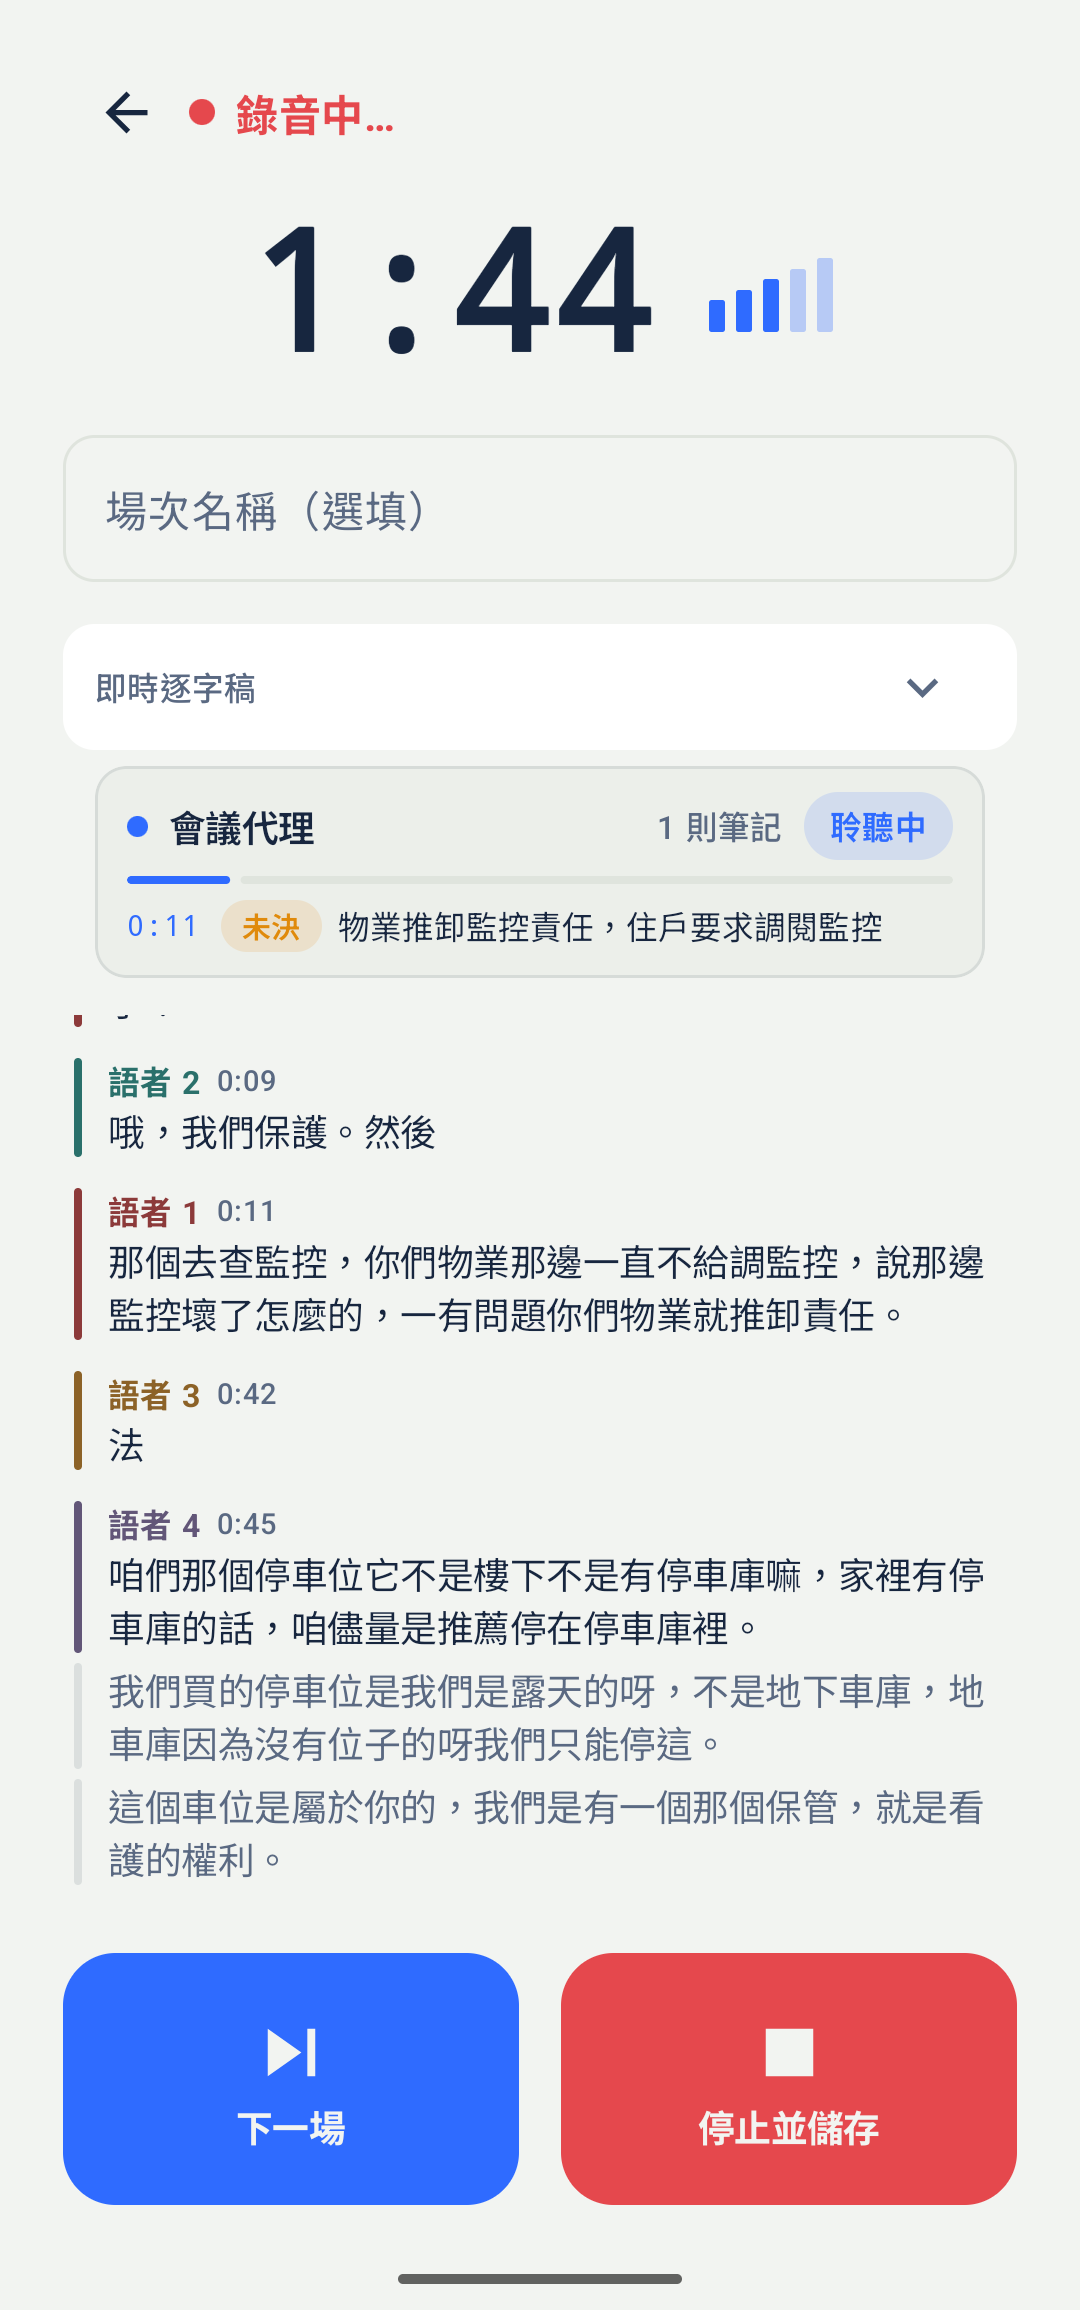
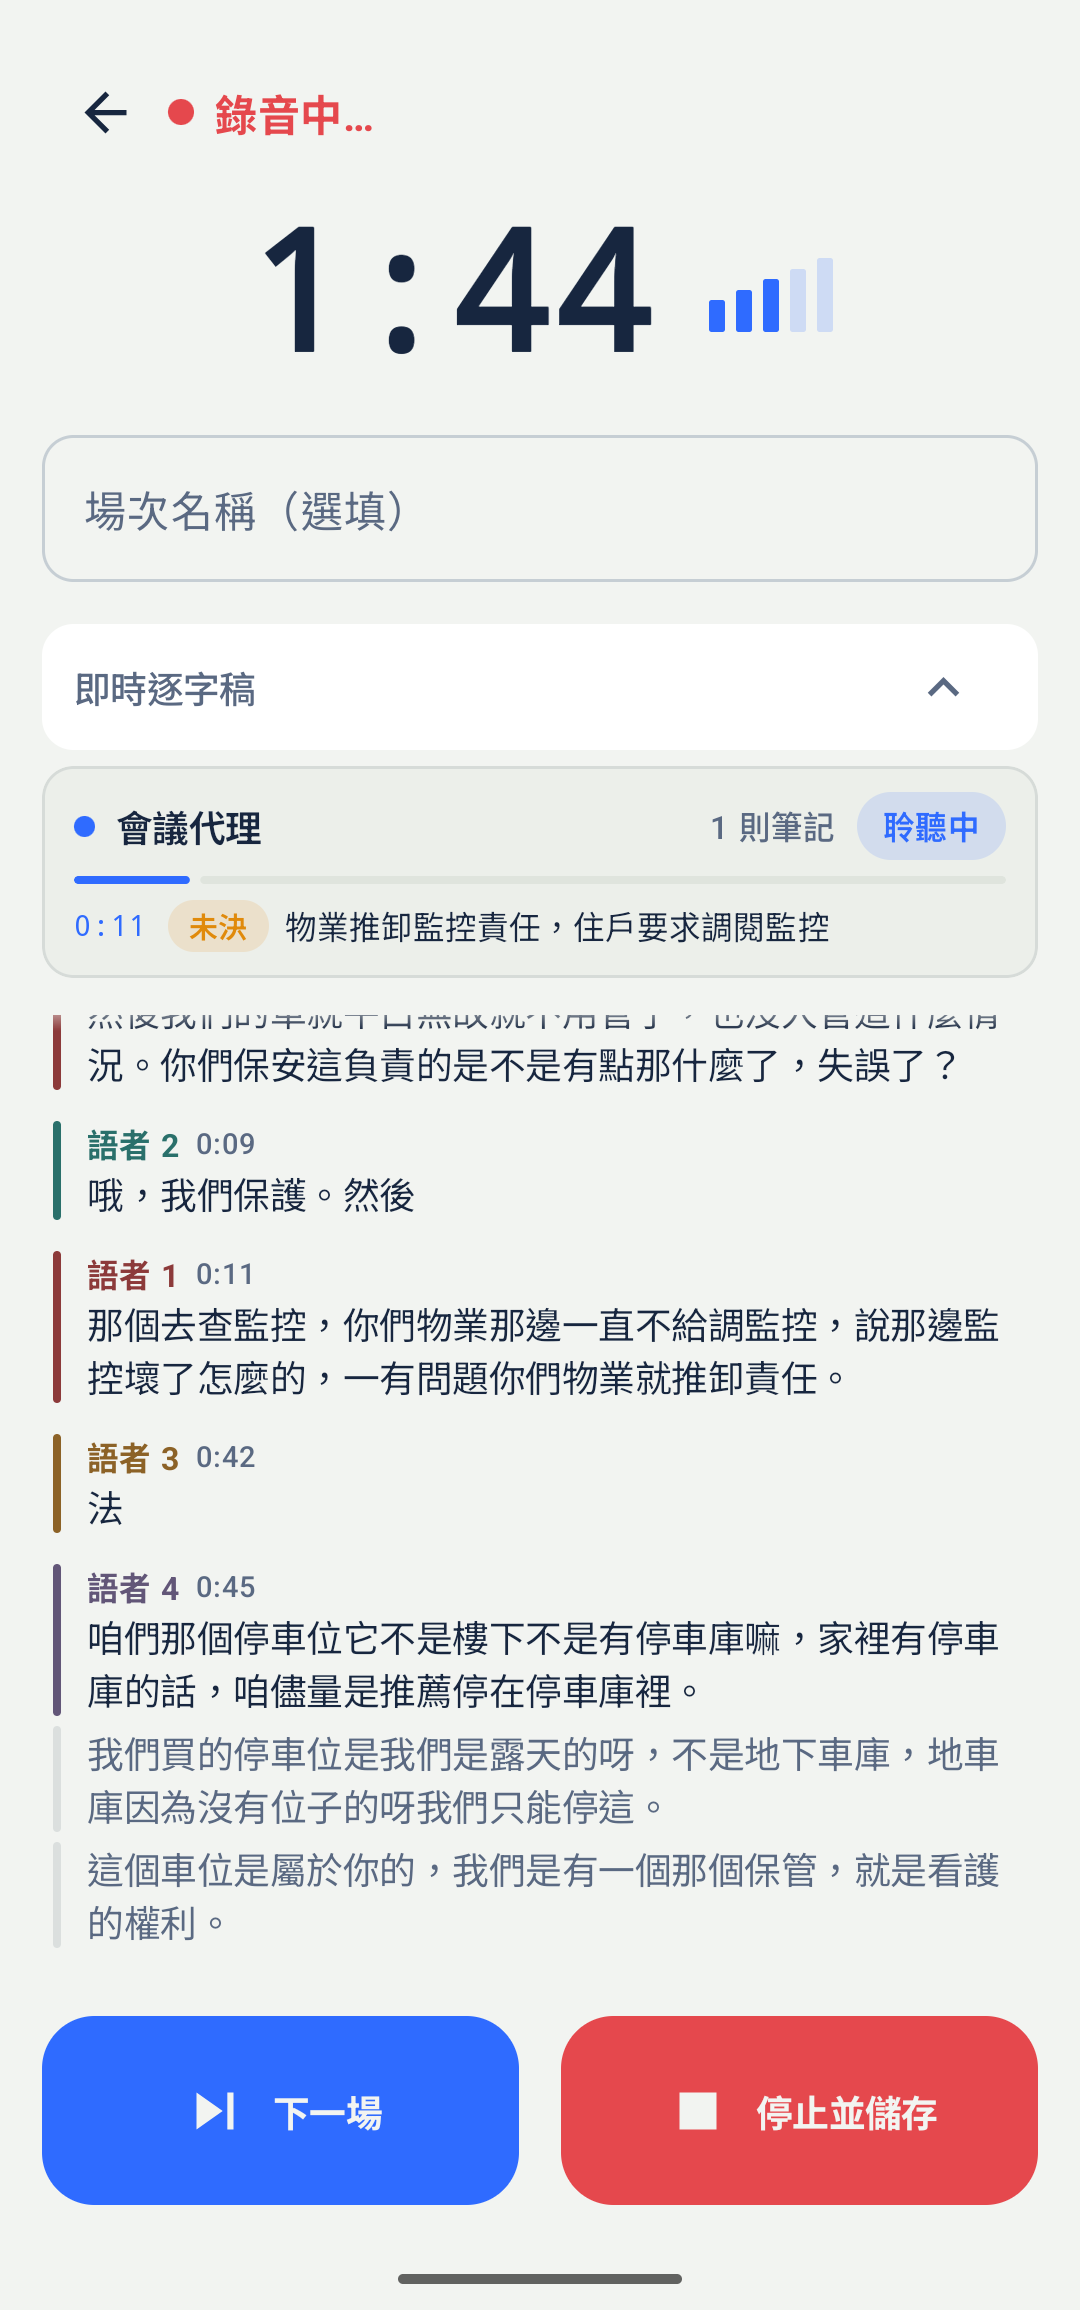
ui: recording booth polish (aligned agent card, fade, 16 dp margin, shorter buttons, visible name border, chevron direction) and redundancy cleanup (card titles, filter chips, agent caution)
Claude-Session: https://claude.ai/code/session_01FTPZWryYGhBFouGpM2DEme

diff --git a/app/src/main/java/studio/voxsum/ui/CaptureScreen.kt b/app/src/main/java/studio/voxsum/ui/CaptureScreen.kt
@@ -51,7 +51,12 @@ import androidx.compose.runtime.setValue
 import androidx.compose.ui.Alignment
 import androidx.compose.ui.Modifier
 import androidx.compose.ui.draw.clip
+import androidx.compose.ui.graphics.BlendMode
+import androidx.compose.ui.graphics.Brush
 import androidx.compose.ui.graphics.Color
+import androidx.compose.ui.graphics.CompositingStrategy
+import androidx.compose.ui.draw.drawWithContent
+import androidx.compose.ui.graphics.graphicsLayer
 import androidx.compose.ui.platform.LocalConfiguration
 import androidx.compose.ui.res.stringResource
 import androidx.compose.ui.text.font.FontWeight
@@ -97,7 +102,7 @@ fun CaptureScreen(
             .background(pal.Slate900Grad)
             .statusBarsPadding()
             .navigationBarsPadding()
-            .padding(horizontal = 24.dp),
+            .padding(horizontal = 16.dp),
     ) {
         Row(verticalAlignment = Alignment.CenterVertically, modifier = Modifier.padding(top = 4.dp)) {
             IconButton(onClick = onBack) {
@@ -143,7 +148,7 @@ fun CaptureScreen(
             LiveHeader(showLive, pal) { showLive = !showLive }
             LivePanel(showLive, utterances, stable, agent)
             Spacer(Modifier.height(16.dp))
-            CaptureButtons(isRecording, onNextTalk, onStop, buttonHeight = 96.dp)
+            CaptureButtons(isRecording, onNextTalk, onStop, buttonHeight = 72.dp)
             Spacer(Modifier.height(16.dp))
         }
     }
@@ -194,7 +199,9 @@ private fun NameField(sessionName: String, onSessionName: (String) -> Unit) {
         shape = RoundedCornerShape(12.dp),
         colors = OutlinedTextFieldDefaults.colors(
             focusedTextColor = pal.Slate200, unfocusedTextColor = pal.Slate200,
-            focusedBorderColor = pal.Sky, unfocusedBorderColor = pal.Slate700,
+            focusedBorderColor = pal.Sky,
+            // Slate700 is an inactive-track grey: on the light ground the field's edge all but vanished.
+            unfocusedBorderColor = if (pal.isEink) pal.Slate600 else pal.Slate600.copy(alpha = 0.5f),
         ),
         modifier = Modifier.fillMaxWidth(),
     )
@@ -208,14 +215,15 @@ private fun LiveHeader(showLive: Boolean, pal: studio.voxsum.ui.theme.VoxSumColo
     ) {
         Text(
             stringResource(R.string.capture_live_transcript),
-            style = MaterialTheme.typography.labelMedium,
+            style = MaterialTheme.typography.labelLarge,
             color = pal.Slate400,
             modifier = Modifier.weight(1f),
         )
         IconButton(onClick = onToggle) {
             Icon(
-                if (showLive) Icons.Filled.ExpandMore else Icons.Filled.ExpandLess,
-                contentDescription = null,
+                // Chevron points where the panel will go: up = open (tap to fold), down = folded.
+                if (showLive) Icons.Filled.ExpandLess else Icons.Filled.ExpandMore,
+                contentDescription = stringResource(R.string.capture_live_transcript),
                 tint = pal.Slate400,
             )
         }
@@ -245,7 +253,7 @@ private fun androidx.compose.foundation.layout.ColumnScope.LivePanel(
             Column(horizontalAlignment = Alignment.CenterHorizontally) {
                 Icon(
                     Icons.Filled.Mic, contentDescription = null,
-                    tint = pal.Slate700, modifier = Modifier.size(44.dp),
+                    tint = pal.Sky.copy(alpha = 0.5f), modifier = Modifier.size(44.dp),
                 )
                 Spacer(Modifier.height(10.dp))
                 Text(stringResource(R.string.capture_live_waiting), color = pal.Slate400, style = MaterialTheme.typography.titleMedium)
@@ -261,7 +269,9 @@ private fun androidx.compose.foundation.layout.ColumnScope.LivePanel(
         }
         LazyColumn(
             state = listState,
-            modifier = Modifier.fillMaxWidth().weight(1f).padding(horizontal = 4.dp, vertical = 8.dp),
+            modifier = Modifier.fillMaxWidth().weight(1f)
+                .then(if (pal.isEink) Modifier else Modifier.fadeTop(14.dp))
+                .padding(horizontal = 4.dp, vertical = 8.dp),
         ) {
             items(utterances.size) { i ->
                 val u = utterances[i]
@@ -322,8 +332,8 @@ private fun CaptureButtons(
             // Minimal padding: on narrow phones the default 24dp sides forced CJK labels to wrap.
             contentPadding = PaddingValues(horizontal = 8.dp, vertical = 8.dp),
         ) {
-            Column(horizontalAlignment = Alignment.CenterHorizontally) {
-                Icon(Icons.Filled.SkipNext, contentDescription = null, modifier = Modifier.size(36.dp))
+            Row(verticalAlignment = Alignment.CenterVertically, horizontalArrangement = Arrangement.spacedBy(8.dp)) {
+                Icon(Icons.Filled.SkipNext, contentDescription = null, modifier = Modifier.size(28.dp))
                 Text(stringResource(R.string.capture_next_talk), fontWeight = FontWeight.Bold, maxLines = 1)
             }
         }
@@ -336,10 +346,22 @@ private fun CaptureButtons(
             modifier = Modifier.weight(1f).height(buttonHeight),
             contentPadding = PaddingValues(horizontal = 8.dp, vertical = 8.dp),
         ) {
-            Column(horizontalAlignment = Alignment.CenterHorizontally) {
-                Icon(Icons.Filled.Stop, contentDescription = null, modifier = Modifier.size(36.dp))
+            Row(verticalAlignment = Alignment.CenterVertically, horizontalArrangement = Arrangement.spacedBy(8.dp)) {
+                Icon(Icons.Filled.Stop, contentDescription = null, modifier = Modifier.size(28.dp))
                 Text(stringResource(R.string.capture_stop), fontWeight = FontWeight.Bold, maxLines = 1)
             }
         }
     }
 }
+
+/** Dissolves the first [height] of a scrolling list into the ground, so a line cut by the panel's
+ *  top edge fades instead of being sliced. */
+private fun Modifier.fadeTop(height: androidx.compose.ui.unit.Dp): Modifier = this
+    .graphicsLayer { compositingStrategy = CompositingStrategy.Offscreen }
+    .drawWithContent {
+        drawContent()
+        drawRect(
+            Brush.verticalGradient(listOf(Color.Transparent, Color.Black), endY = height.toPx()),
+            blendMode = BlendMode.DstIn,
+        )
+    }

diff --git a/app/src/main/java/studio/voxsum/MainActivity.kt b/app/src/main/java/studio/voxsum/MainActivity.kt
@@ -2006,7 +2006,7 @@ private fun TranscribeScreen(
                         cm?.setPrimaryClip(android.content.ClipData.newPlainText("VoxSum summary", s))
                         scope.launch { snackbarHostState.showSnackbar(context.getString(R.string.summary_copied)) }
                     },
-                    onSeek = anchorSeek)
+                    onSeek = anchorSeek, showHeading = twoPane)
             }
             // Sections the v2 NOTES format adds and the older prose summary never had. Rendered
             // only when non-empty: the format requires all six keys to be present, so a meeting
@@ -2045,7 +2045,7 @@ private fun TranscribeScreen(
                         cm?.setPrimaryClip(android.content.ClipData.newPlainText("VoxSum action items", ai))
                         scope.launch { snackbarHostState.showSnackbar(context.getString(R.string.action_items_copied)) }
                     },
-                    onSeek = anchorSeek)
+                    onSeek = anchorSeek, showHeading = twoPane)
             }
             if (actionItems == null) {
                 Text(stringResource(R.string.actions_pending_hint), color = pal.Slate400, modifier = Modifier.padding(top = 24.dp))
@@ -2681,17 +2681,19 @@ private fun SummaryCard(
     summary: String, llm: String, isEditing: Boolean,
     onBeginEdit: () -> Unit, onSave: (String) -> Unit, onCancel: () -> Unit, onCopy: () -> Unit,
     onSeek: ((Int) -> Unit)? = null,
+    /** Off when a tab already carries the name (portrait): the card then keeps only its tools. */
+    showHeading: Boolean = true,
 ) {
     val pal = LocalVoxSumPalette.current
     SectionCard {
         Row(verticalAlignment = Alignment.CenterVertically) {
-            Text(
+            if (showHeading) Text(
                 stringResource(R.string.card_summary),
                 style = MaterialTheme.typography.titleMedium,
                 fontWeight = FontWeight.SemiBold,
                 color = pal.Slate200,
                 modifier = Modifier.weight(1f),
-            )
+            ) else Spacer(Modifier.weight(1f))
             if (!isEditing) {
                 // One-tap copy to clipboard (the summary export was removed — the .ogg is the editor).
                 IconButton(onClick = onCopy, modifier = Modifier.size(28.dp)) {
@@ -2726,17 +2728,18 @@ private fun ActionItemsCard(
     text: String, isEditing: Boolean,
     onBeginEdit: () -> Unit, onSave: (String) -> Unit, onCancel: () -> Unit, onCopy: () -> Unit,
     onSeek: ((Int) -> Unit)? = null,
+    showHeading: Boolean = true,
 ) {
     val pal = LocalVoxSumPalette.current
     SectionCard {
         Row(verticalAlignment = Alignment.CenterVertically) {
-            Text(
+            if (showHeading) Text(
                 stringResource(R.string.card_action_items),
                 style = MaterialTheme.typography.titleMedium,
                 fontWeight = FontWeight.SemiBold,
                 color = pal.Slate200,
                 modifier = Modifier.weight(1f),
-            )
+            ) else Spacer(Modifier.weight(1f))
             if (!isEditing) {
                 IconButton(onClick = onCopy, modifier = Modifier.size(28.dp)) {
                     Icon(Icons.Filled.ContentCopy, contentDescription = stringResource(R.string.cd_copy_summary),

diff --git a/app/src/main/java/studio/voxsum/ui/StudioScreen.kt b/app/src/main/java/studio/voxsum/ui/StudioScreen.kt
@@ -260,14 +260,18 @@ fun StudioScreen(
             Box(Modifier.padding(horizontal = Gutter)) { updateBanner() }
 
             // Status filter chips — pairs with multi-select for "clear all junk" (New → Select all → Delete).
-            if (entries.isNotEmpty()) {
+            // A chip that would list exactly what "All" lists is noise, so it is left out; with
+            // nothing left to choose between, so is the whole row.
+            val showNew = newCount > 0 && newCount < entries.size
+            val showDone = doneCount > 0 && doneCount < entries.size
+            if (showNew || showDone) {
                 Row(
                     Modifier.fillMaxWidth().padding(start = Gutter, end = Gutter, top = 8.dp),
                     horizontalArrangement = Arrangement.spacedBy(8.dp),
                 ) {
                     FilterChip(stringResource(R.string.filter_all, entries.size), statusFilter == StatusFilter.ALL) { statusFilter = StatusFilter.ALL }
-                    if (newCount > 0) FilterChip(stringResource(R.string.filter_new, newCount), statusFilter == StatusFilter.NEW) { statusFilter = StatusFilter.NEW }
-                    if (doneCount > 0) FilterChip(stringResource(R.string.filter_done, doneCount), statusFilter == StatusFilter.DONE) { statusFilter = StatusFilter.DONE }
+                    if (showNew) FilterChip(stringResource(R.string.filter_new, newCount), statusFilter == StatusFilter.NEW) { statusFilter = StatusFilter.NEW }
+                    if (showDone) FilterChip(stringResource(R.string.filter_done, doneCount), statusFilter == StatusFilter.DONE) { statusFilter = StatusFilter.DONE }
                 }
             }
 

diff --git a/app/src/main/java/studio/voxsum/ui/AgentPanel.kt b/app/src/main/java/studio/voxsum/ui/AgentPanel.kt
@@ -572,7 +572,7 @@ fun AgentStrip(agent: AgentUiState, modifier: Modifier = Modifier) {
     val st = agent.state ?: return
     val cur = agent.steps.lastOrNull { !it.restart }
     Column(
-        modifier.fillMaxWidth().padding(horizontal = 12.dp, vertical = 6.dp).clip(RoundedCornerShape(12.dp))
+        modifier.fillMaxWidth().padding(vertical = 6.dp).clip(RoundedCornerShape(12.dp))
             .background(pal.InsetSurface).border(1.dp, pal.Hairline, RoundedCornerShape(12.dp))
             .padding(horizontal = 12.dp, vertical = 10.dp),
         verticalArrangement = Arrangement.spacedBy(6.dp),

diff --git a/app/src/main/java/studio/voxsum/ui/VoxSumTopBar.kt b/app/src/main/java/studio/voxsum/ui/VoxSumTopBar.kt
@@ -26,7 +26,7 @@ fun MicLevelBars(level: Float, color: androidx.compose.ui.graphics.Color, scale:
                     .width((3 * scale).dp)
                     .height(((6 + i * 2) * scale).dp)
                     .clip(RoundedCornerShape(1.dp))
-                    .background(if (i < active) color else color.copy(alpha = 0.3f)),
+                    .background(if (i < active) color else color.copy(alpha = 0.18f)),
             )
         }
     }
